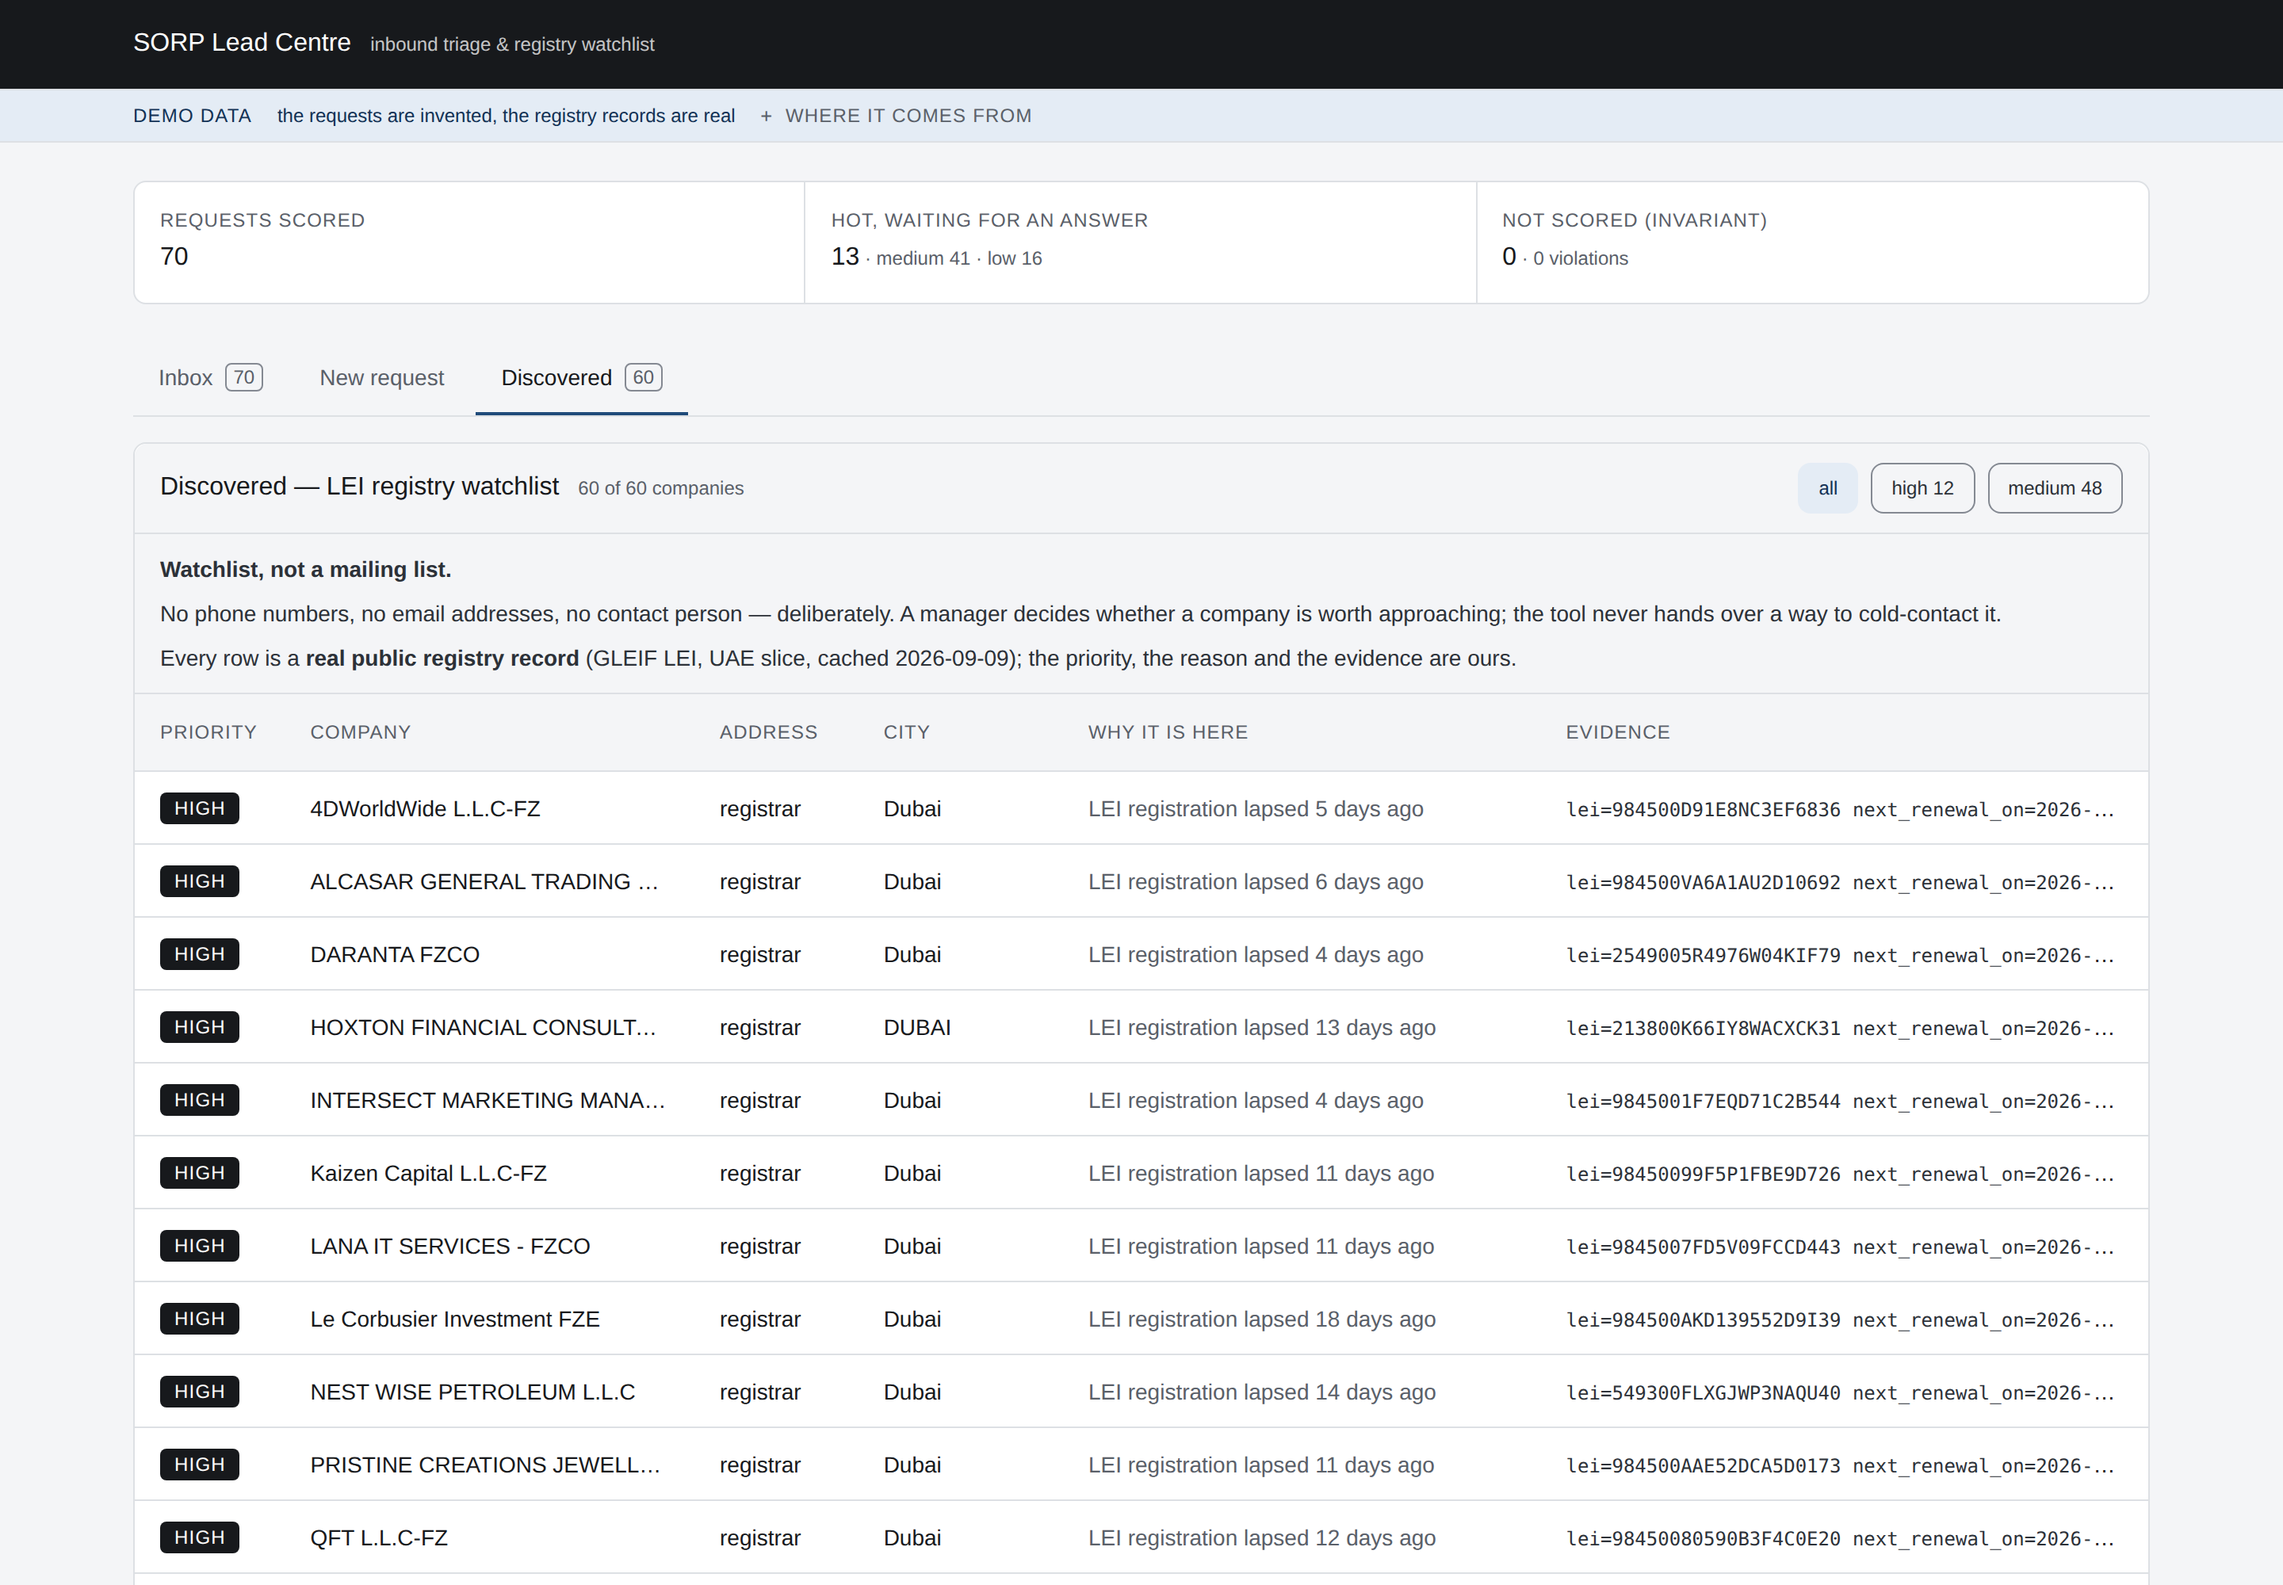
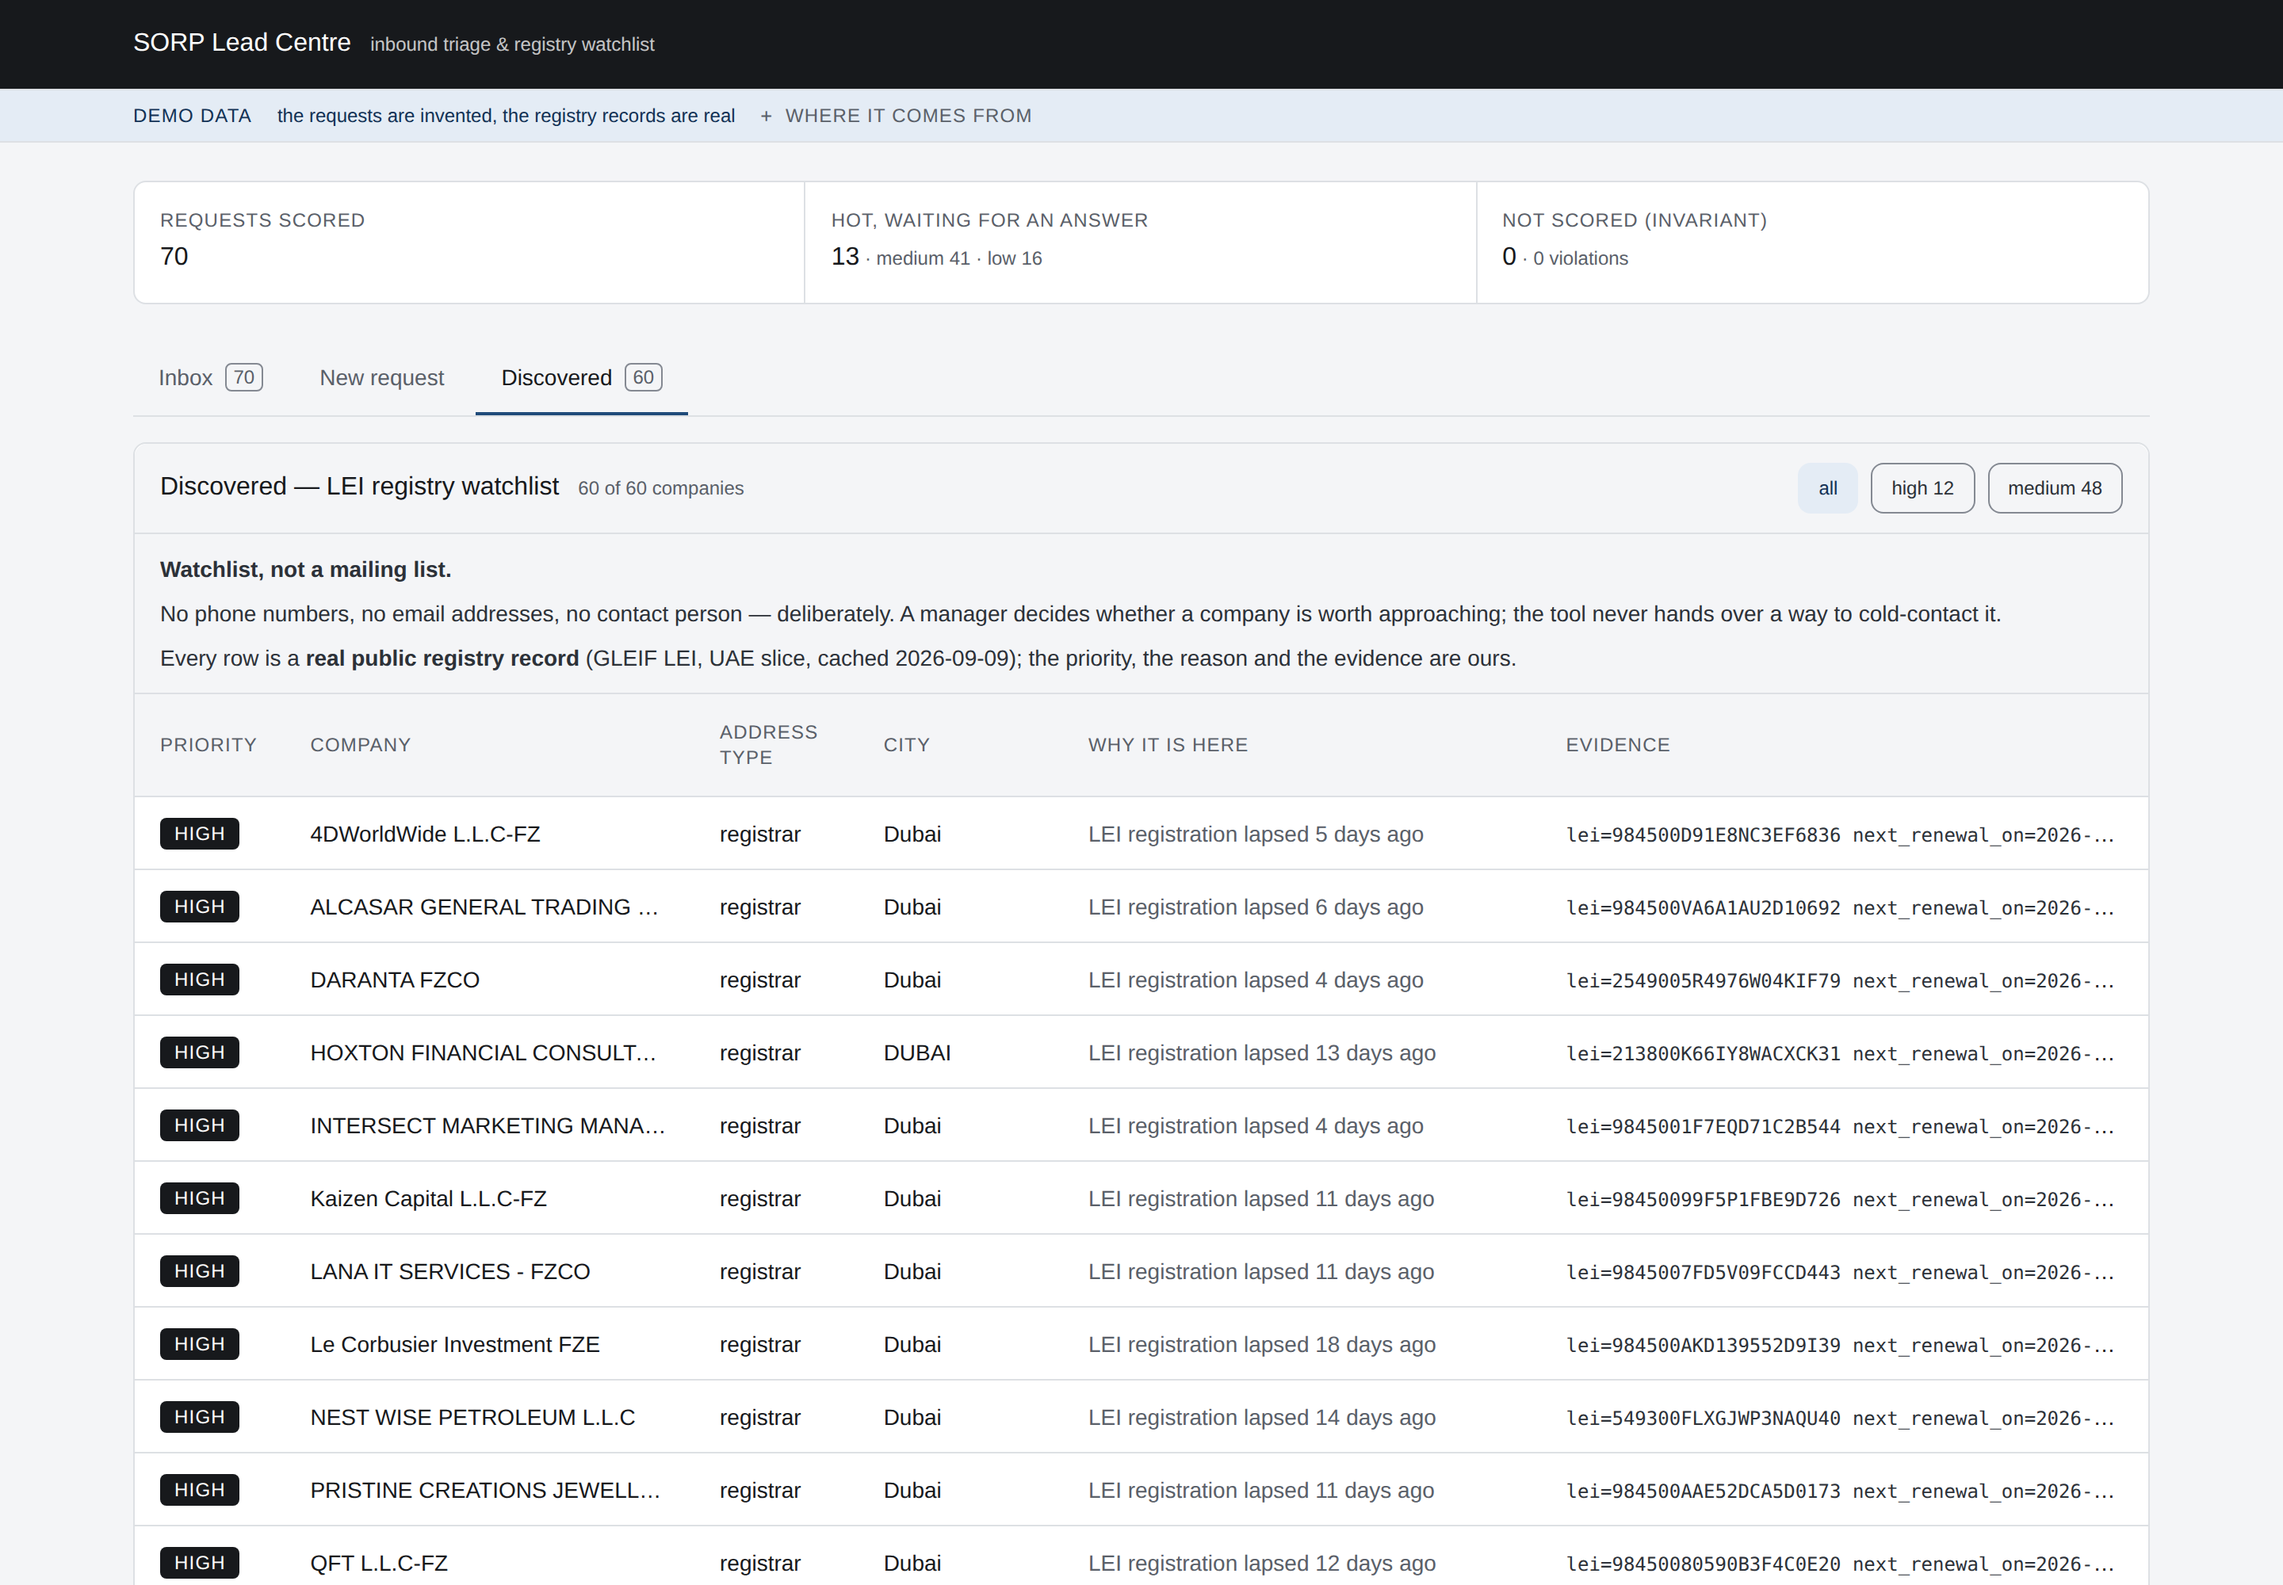
fix(web): подсветка цитаты перестала читаться как замазанный фрагмент
Нажатая причина инвертировала цитату в чёрный прямоугольник — в тексте это выглядит как
затёртое место, а не как выделение. Стал тот же синий, что и у остальных активных
элементов; пара «--on-primary на --primary» уже проверяется прибором контраста.

Колонка `Address` во вкладке «Найдено» переименована в `Address type`: в ячейке стоит
`registrar`, а заголовок обещал адрес.

Кадры пересняты и осмотрены. make test-ci → 622 passed; make lint → All checks passed;
контраст → 38 проверено, 0 нарушений, 2 без порога; сверка порта → 144 из 144.

Claude-Session: https://claude.ai/code/session_014odsbH1wHmd67rLteETy5W

Changed region(s): [[0.0625, 0.434, 0.9375, 1.0]]

diff --git a/web/app/globals.css b/web/app/globals.css
@@ -427,7 +427,7 @@ table.grid th {
   max-height: 240px;
   overflow-y: auto;
 }
-/* Подсветка цитаты, на которой построена причина (02_references §6.3). */
+/* Подсветка цитаты, на которой построена причина. */
 .message-text mark {
   background: var(--primary-container);
   color: var(--on-primary-container);
@@ -435,9 +435,11 @@ table.grid th {
   padding: 0 4px;
   margin: 0 -4px;
 }
+/* Нажатая причина: цитата усиливается тем же синим, а не инверсией в чёрное —
+   чёрный прямоугольник в тексте читается как замазанный фрагмент, а не как выделение. */
 .message-text mark.on {
-  background: var(--inverse-surface);
-  color: var(--inverse-on-surface);
+  background: var(--primary);
+  color: var(--on-primary);
 }
 
 .facts { display: grid; grid-template-columns: auto 1fr; gap: 4px 16px; margin: 0; }

diff --git a/web/components/DiscoveredView.tsx b/web/components/DiscoveredView.tsx
@@ -118,7 +118,7 @@ export default function DiscoveredView({
                 <tr>
                   <th>Priority</th>
                   <th>Company</th>
-                  <th>Address</th>
+                  <th>Address type</th>
                   <th>City</th>
                   <th>Why it is here</th>
                   <th>Evidence</th>
